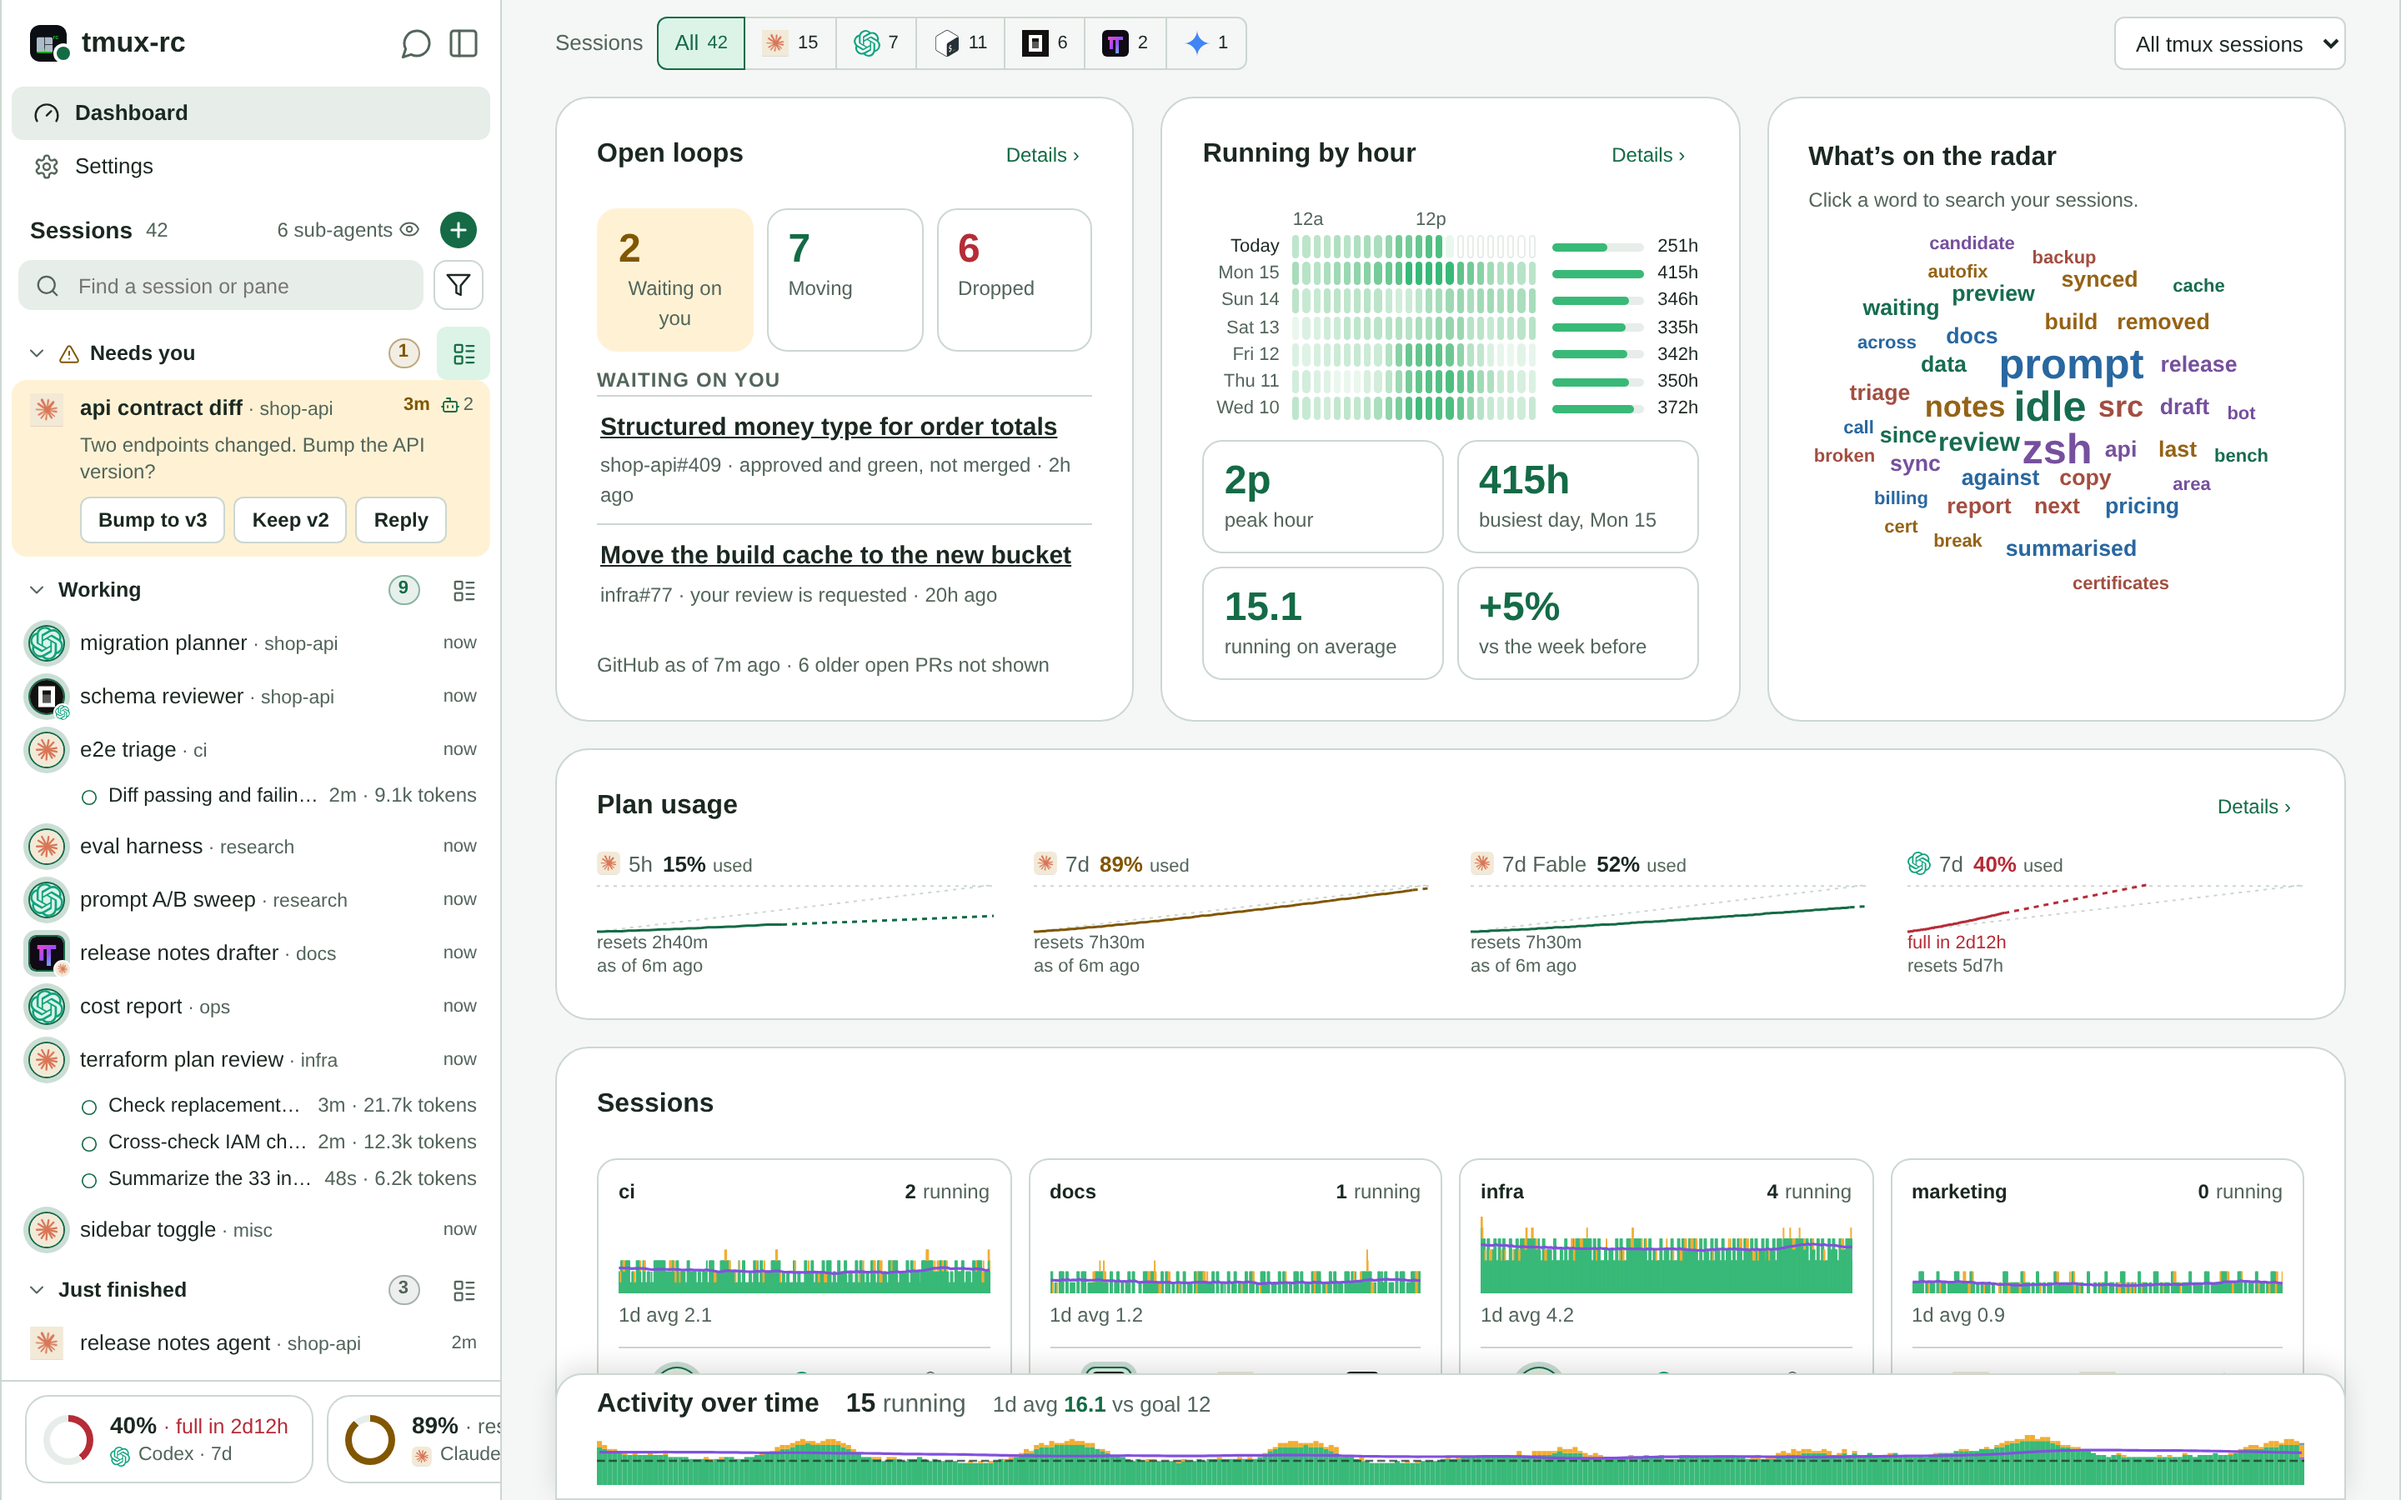
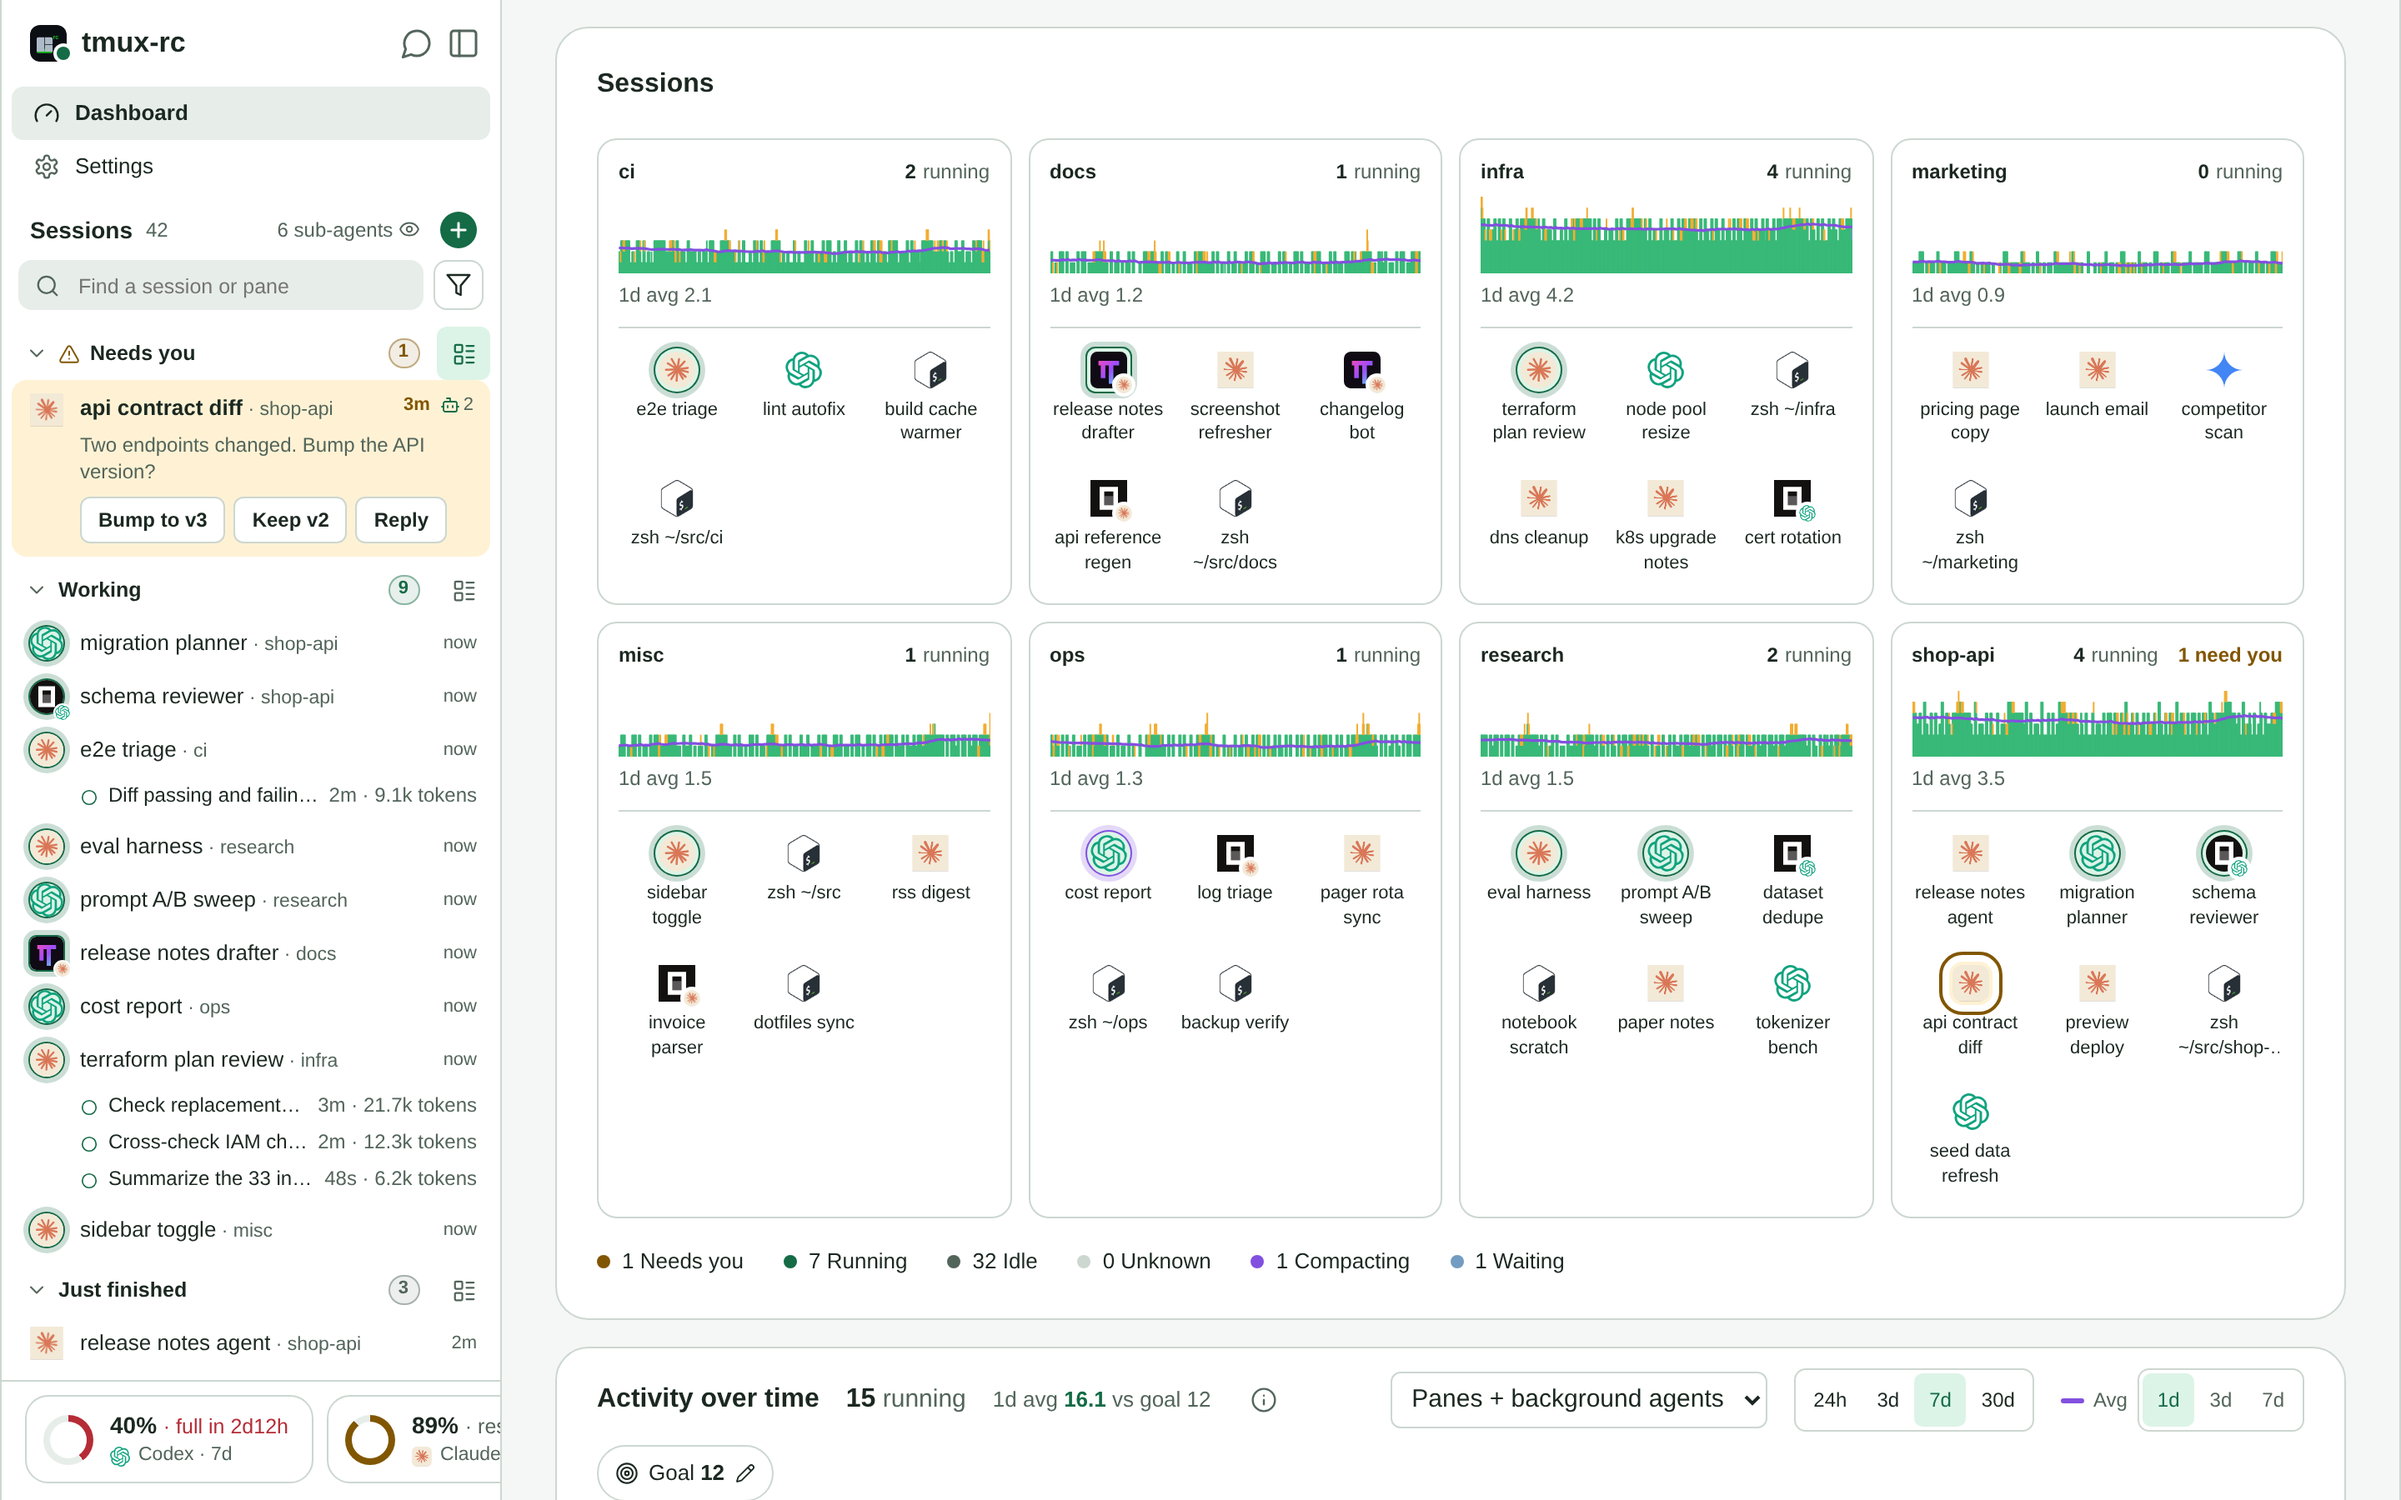
Website: a real atlas shot, alternating feature images, click to enlarge (#464)
* Website: a real atlas shot, alternating feature images, click to enlarge

website-atlas still scrolled to .atlas-map, which #382 replaced with one card per
session; the step failed softly and the shot was the dashboard's top, the same
picture as website-dashboard. It now reaches .atlas-multiples as wide-sessions
does, and the section's copy describes the Sessions card it shows.

Feature sections alternate the image's side on wide screens (CSS only; phones keep
the stack), and any screenshot opens full size in a native <dialog>: click, Enter
or Space opens it; a click, Esc or the close button shuts it. Portrait screens fit
the shot's height and pan sideways, since fitting the width would not enlarge it.

* Website: crop website-usage to the Plan usage card

Its crop, the sidebar foot (#usage), no longer fit the shot: it came out whole, the
desktop pane view under "Keep an eye on your limits". It now crops the dashboard's
Plan usage card at phone width, where the meters sit two by two: Claude and Codex
windows with trend, resets and the red "full in" warning, as the caption says.

* Website: usage trends are on every width, not just desktop

* Website: name the screenshot zoom dialog for screen readers

---------

diff --git a/docs-site/layouts/home.html b/docs-site/layouts/home.html
@@ -109,16 +109,16 @@
       <img src="{{ "img/website-desktop.png" | relURL }}" width="2880" height="1800" alt="Compact sessions with subagent tasks beneath e2e triage and terraform plan review" loading="lazy">
     </article>
     <article class="feature-detail" id="usage-limits">
-      <div><p class="eyebrow">MAKE ROOM BEFORE YOU RUN OUT</p><h2>Keep an eye on your limits.</h2><p>Running a fleet can use a subscription window fast. Claude and Codex meters show how much you’ve used, when each window resets, and where your current pace is heading.</p><ul><li>Track separate accounts and their available plan windows.</li><li>See usage trends and projections on desktop.</li><li>Amber and red warnings flag a tight window; “full in” estimates time to exhaustion.</li></ul><p class="feature-note">Projections estimate your current pace; they don’t guarantee how much work remains.</p><a href="{{ "design/plan-usage/" | relURL }}">How usage tracking works <span aria-hidden="true">→</span></a></div>
-      <div class="feature-image usage-image"><img src="{{ "img/website-usage.png" | relURL }}" width="598" height="302" alt="Claude and Codex plan meters with usage percentages, trend lines, reset times, and a red full-in warning" loading="lazy"></div>
+      <div><p class="eyebrow">MAKE ROOM BEFORE YOU RUN OUT</p><h2>Keep an eye on your limits.</h2><p>Running a fleet can use a subscription window fast. Claude and Codex meters show how much you’ve used, when each window resets, and where your current pace is heading.</p><ul><li>Track separate accounts and their available plan windows.</li><li>See usage trends and projections.</li><li>Amber and red warnings flag a tight window; “full in” estimates time to exhaustion.</li></ul><p class="feature-note">Projections estimate your current pace; they don’t guarantee how much work remains.</p><a href="{{ "design/plan-usage/" | relURL }}">How usage tracking works <span aria-hidden="true">→</span></a></div>
+      <div class="feature-image usage-image"><img src="{{ "img/website-usage.png" | relURL }}" width="716" height="630" alt="Claude and Codex plan meters with usage percentages, trend lines, reset times, and a red full-in warning" loading="lazy"></div>
     </article>
     <article class="feature-detail" id="activity">
       <div><p class="eyebrow">KEEP YOUR FLEET MOVING</p><h2>See activity over time.</h2><p>The dashboard shows how many panes and background agents are working, idle, compacting, waiting, or asking for you. Set a running-agent goal and compare it with the moving average.</p><ul><li>Explore a day, three days, a week, or a month of history.</li><li>Compare activity by tmux session or agent tool.</li><li>Filter the population and zoom into a stretch of work.</li></ul><p class="feature-note">Activity counts show agent states, not token throughput or CPU utilization.</p><a href="{{ "design/pane-history/" | relURL }}">How activity history works <span aria-hidden="true">→</span></a></div>
       <img src="{{ "img/website-dashboard.png" | relURL }}" width="2880" height="1800" alt="Activity dashboard with stacked state history, a moving average, a goal line, and charts grouped by session" loading="lazy">
     </article>
     <article class="feature-detail" id="session-atlas">
-      <div><p class="eyebrow">A MAP OF YOUR WHOLE FLEET</p><h2>Find every pane at a glance.</h2><p>The session atlas gives each tmux session its own space, with a tile for every pane. State colors and agent icons help you spot what’s working and what needs attention across a large fleet.</p><ul><li>See panes grouped spatially by their tmux session.</li><li>Filter by session or agent tool.</li><li>Choose a pane to open its live terminal and overview.</li></ul><a href="{{ "documentation/" | relURL }}">Explore the docs <span aria-hidden="true">→</span></a></div>
-      <img src="{{ "img/website-atlas.png" | relURL }}" width="2880" height="1800" alt="Spatial session atlas showing the fictional fleet as groups of named, state-colored pane tiles" loading="lazy">
+      <div><p class="eyebrow">A MAP OF YOUR WHOLE FLEET</p><h2>Find every pane at a glance.</h2><p>The Sessions card gives each tmux session a card of its own: how many of its panes are running, its activity over the past week, and a tile for every pane with its agent and title. A ring marks each pane that’s working, so you can spot what’s moving and what needs you across a large fleet.</p><ul><li>See each session’s running count, and who needs you, in its header.</li><li>Compare sessions’ activity on one shared scale.</li><li>Choose a pane’s tile to open its live terminal and overview.</li></ul><a href="{{ "documentation/" | relURL }}">Explore the docs <span aria-hidden="true">→</span></a></div>
+      <img src="{{ "img/website-atlas.png" | relURL }}" width="2880" height="1800" alt="Sessions card with one card per fictional tmux session, each showing its running count, a week of activity, and a tile for every pane with its agent icon and title" loading="lazy">
     </article>
     <article class="feature-detail" id="voice">
       <div><p class="eyebrow">TALK, THEN KEEP GOING</p><h2>A conversation with your fleet.</h2><p>Use text chat or an active voice session from desktop or phone. Ask what your agents are doing, relay an instruction, and hear a follow-up when the work you directed changes.</p><ul><li>“Which agents need me?” — get a fleet update.</li><li>“Show me e2e triage.” — get an Open button.</li><li>“Tell it to rerun with tracing.” — send an instruction.</li><li>“Press Escape in that pane.” — send a control key.</li><li>“Resume the checkout session.” — find and resume earlier work when session history is installed.</li></ul><p class="feature-note">Chat offers pane-changing actions for approval. Voice follows your spoken instructions and reports back; routine fleet updates stay quiet.</p><a href="{{ "design/live-mode/" | relURL }}">Voice and chat setup <span aria-hidden="true">→</span></a></div>
@@ -132,6 +132,8 @@
 
   <section class="docs-entry wrap"><div><p class="eyebrow">GO DEEPER</p><h2>The docs live here, too.</h2><p>Setup, remote access, architecture, and the decisions behind the project.</p></div><a class="button" href="{{ "documentation/" | relURL }}">Browse documentation <span aria-hidden="true">→</span></a></section>
 </main>
+<!-- A screenshot opened full size (landing.js): they are shot at 2x and shown far smaller. -->
+<dialog class="zoom" id="zoom" aria-label="Screenshot, full size"><button class="zoom-close" aria-label="Close"><svg viewBox="0 0 24 24" aria-hidden="true"><path d="M18 6 6 18M6 6l12 12"/></svg></button><img alt=""></dialog>
 <footer class="wrap"><a class="brand" href="{{ .Site.Home.RelPermalink }}">tmux-rc</a><p>Open source · MIT · Your existing tmux sessions</p><a href="https://github.com/querystory/tmux-rc">GitHub <span aria-hidden="true">↗</span></a></footer>
 </body>
 </html>

diff --git a/docs-site/assets/landing.css b/docs-site/assets/landing.css
@@ -773,3 +773,17 @@ footer p,footer>a:last-child {
 @media(max-width:900px) { .showcase { --caption-height:4.8em; } }
 @media(max-width:700px) { .showcase { --caption-height:8em; } }
 .feature-detail>img, .feature-image img { height:auto; }
+/* Wide screens alternate the image's side; phones keep the one-column stack. */
+@media(min-width:701px) {
+  .feature-detail:nth-of-type(even) { grid-template-columns:minmax(0,1.4fr) minmax(0,.85fr); }
+  .feature-detail:nth-of-type(even)>:first-child { order:2; }
+}
+.screen img, .phones img, .preview-pair img, .feature-detail img { cursor:zoom-in; }
+:is(.screen, .phones, .preview-pair, .feature-detail) img:focus-visible { outline:2px solid var(--accent); outline-offset:3px; }
+.zoom { inset:0; width:100%; height:100%; max-width:none; max-height:none; margin:0; padding:24px; border:0; background:transparent; cursor:zoom-out; }
+.zoom::backdrop { background:#000d; }
+.zoom img { display:block; width:100%; height:100%; object-fit:contain; }
+.zoom-close { position:fixed; top:12px; right:12px; display:inline-flex; padding:6px; border:0; border-radius:5px; background:#0008; color:#fff; cursor:pointer; }
+.zoom-close svg { width:22px; height:22px; fill:none; stroke:currentColor; stroke-width:2; stroke-linecap:round; }
+/* A portrait screen would only shrink a wide shot again: fit its height and pan sideways. */
+@media(max-aspect-ratio:1/1) { .zoom { overflow:auto; } .zoom img { width:auto; max-width:none; } }

diff --git a/docs-site/static/landing.js b/docs-site/static/landing.js
@@ -63,3 +63,16 @@ for (const button of document.querySelectorAll('[data-copy]')) {
     setTimeout(() => { button.textContent = 'Copy'; button.setAttribute('aria-label', label); }, 2000);
   });
 }
+
+// Any screenshot opens full size; a click anywhere, Esc or the close button shuts it. `src`,
+// not `currentSrc`: the hero's phone placeholder must never be what opens.
+const zoom = document.getElementById('zoom'), zoomed = zoom.querySelector('img');
+for (const img of document.querySelectorAll('.screen img, .phones img, .preview-pair img, .feature-detail img')) {
+  img.tabIndex = 0;
+  img.setAttribute('role', 'button');
+  img.setAttribute('aria-haspopup', 'dialog');
+  const open = () => { Object.assign(zoomed, { src: img.src, alt: img.alt }); zoom.showModal(); };
+  img.addEventListener('click', open);
+  img.addEventListener('keydown', (event) => { if (event.key === 'Enter' || event.key === ' ') { event.preventDefault(); open(); } });
+}
+zoom.addEventListener('click', () => zoom.close());
